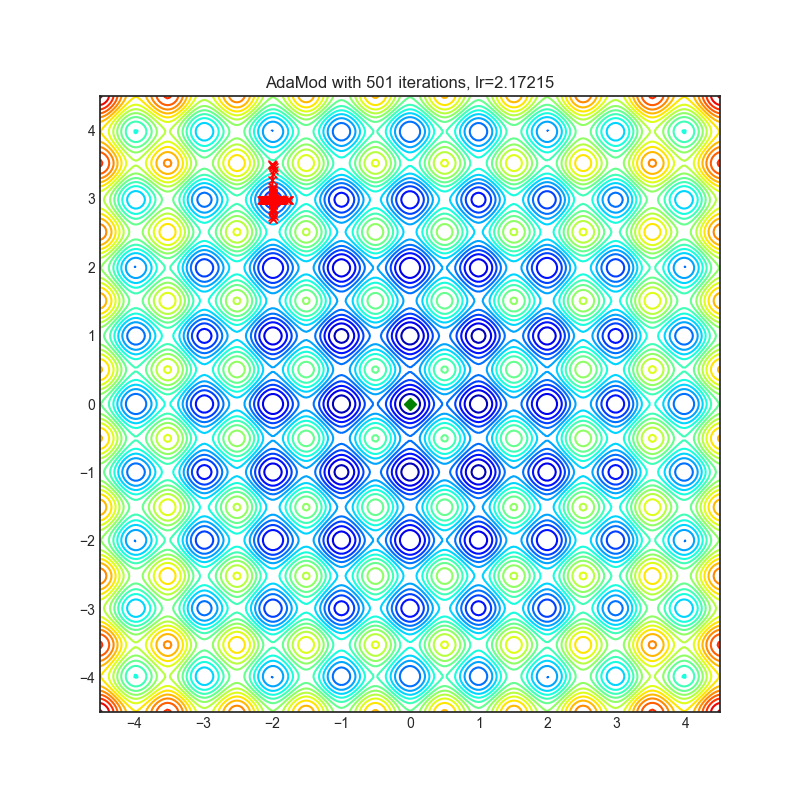
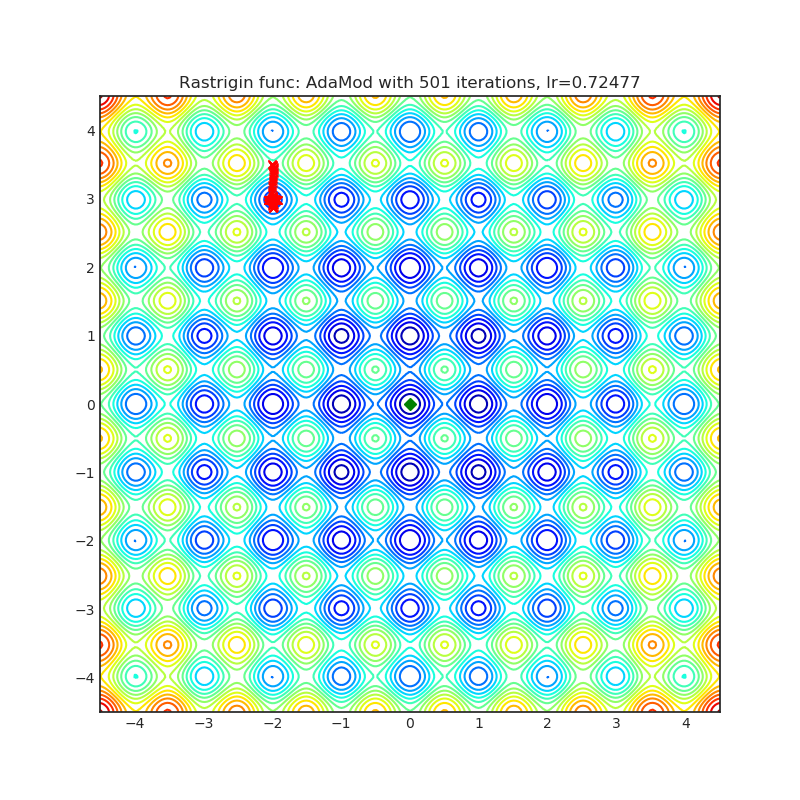
add grad_clip to the example and re-tune p. for all methods (#67)
* add grad clip

* bug fixed

diff --git a/examples/viz_optimizers.py b/examples/viz_optimizers.py
@@ -39,6 +39,7 @@ def execute_steps(
         optimizer.zero_grad()
         f = func(x)
         f.backward(retain_graph=True)
+        torch.nn.utils.clip_grad_norm_(x, 1.0)
         optimizer.step()
         steps[:, i] = x.detach().numpy()
     return steps
@@ -154,31 +155,24 @@ if __name__ == '__main__':
     # Each optimizer has tweaked search space to produce better plots and
     # help to converge on better lr faster.
     optimizers = [
-        (optim.AccSGD, -8, -0.1),
-        (optim.AdaBound, -8, 0.7),
-        (optim.AdaMod, -8, 1.2),
-        (optim.DiffGrad, -8, 0.7),
-        (optim.Lamb, -8, 0.7),
-        (optim.NovoGrad, -6, -2.0),
-        (optim.RAdam, -8, 0.7),
-        (optim.SGDW, -8, -0.9),
+        (optim.AccSGD, -8, -0.4),
+        (optim.AdaBound, -8, 0.3),
+        (optim.AdaMod, -8, 0.2),
+        (optim.DiffGrad, -8, 0.4),
+        (optim.Lamb, -8, -2.9),
+        (optim.NovoGrad, -8, -1.7),
+        (optim.RAdam, -8, 0.5),
+        (optim.SGDW, -8, -0.5),
         (optim.Yogi, -8, 0.1),
     ]
     execute_experiments(
-        optimizers, objective_rastrigin, rastrigin, plot_rastrigin, (-2.0, 3.5)
+        optimizers,
+        objective_rastrigin,
+        rastrigin,
+        plot_rastrigin,
+        (-2.0, 3.5),
     )
 
-    optimizers = [
-        (optim.AccSGD, -8, -0.1),
-        (optim.AdaBound, -8, 0.7),
-        (optim.AdaMod, -4, 1.0),
-        (optim.DiffGrad, -8, 0.2),
-        (optim.Lamb, -8, -0.5),
-        (optim.NovoGrad, -8, -1.0),
-        (optim.RAdam, -8, 0.7),
-        (optim.SGDW, -8, 0.7),
-        (optim.Yogi, -8, 0.1),
-    ]
     execute_experiments(
         optimizers,
         objective_rosenbrok,
